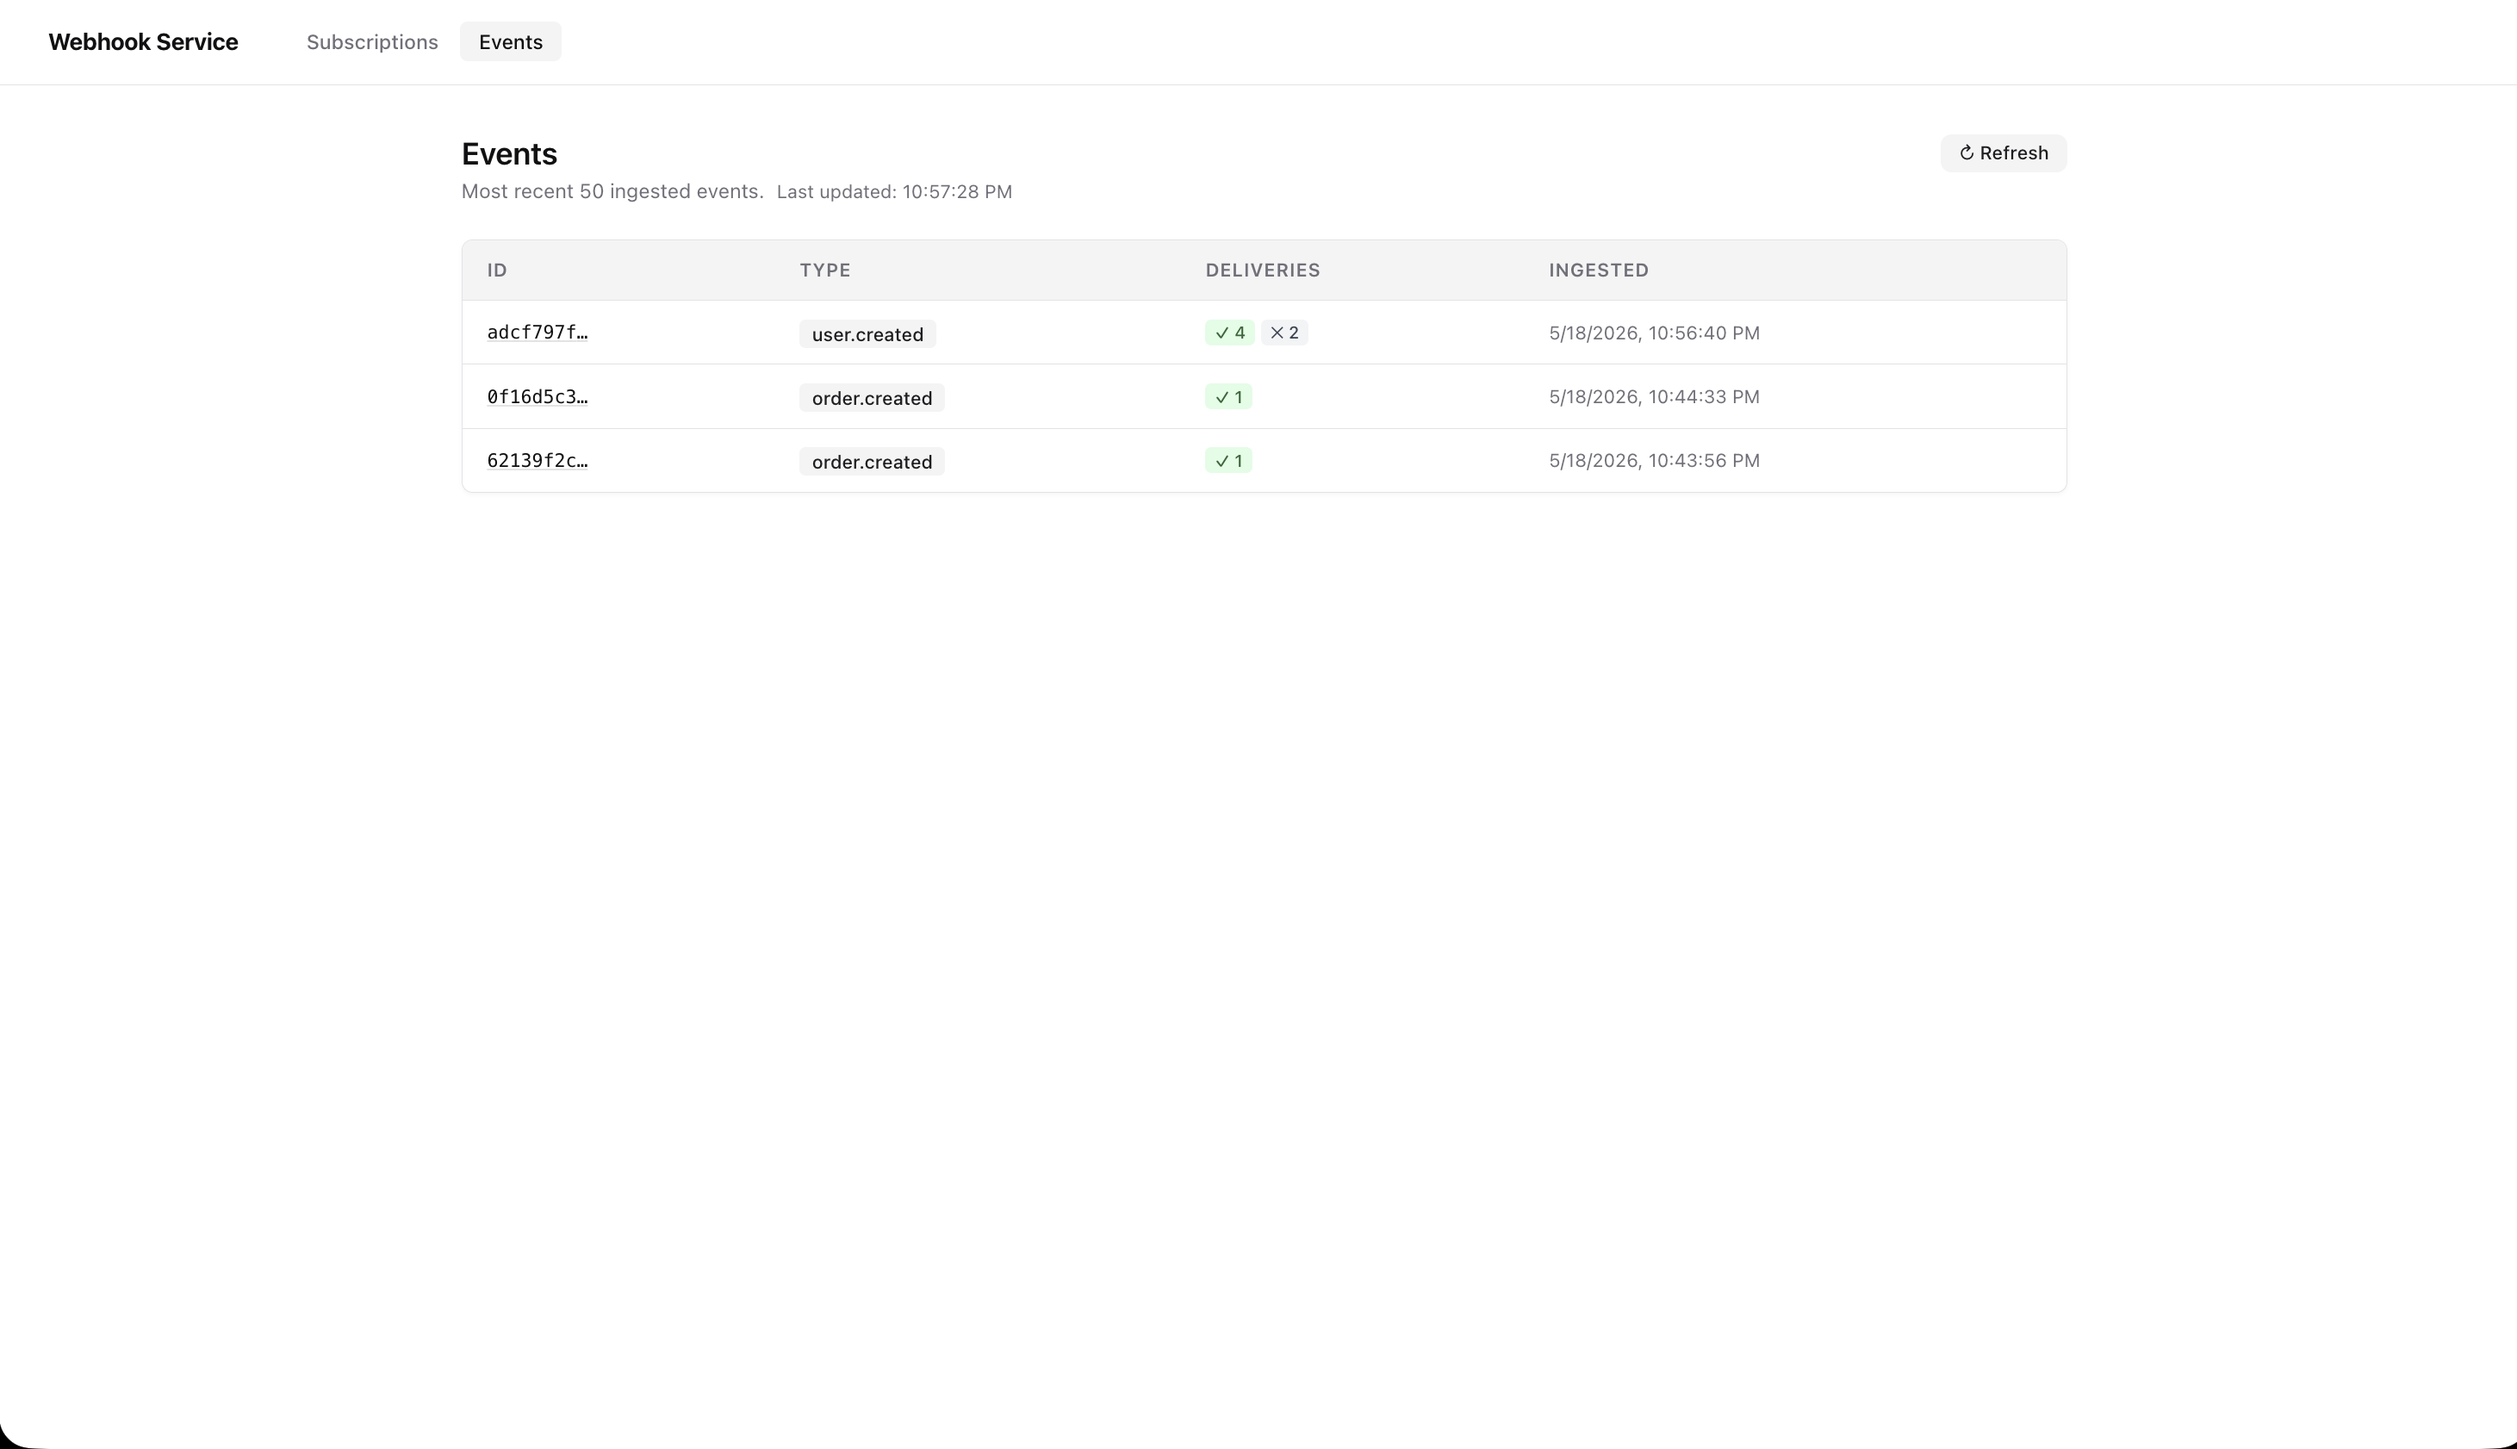
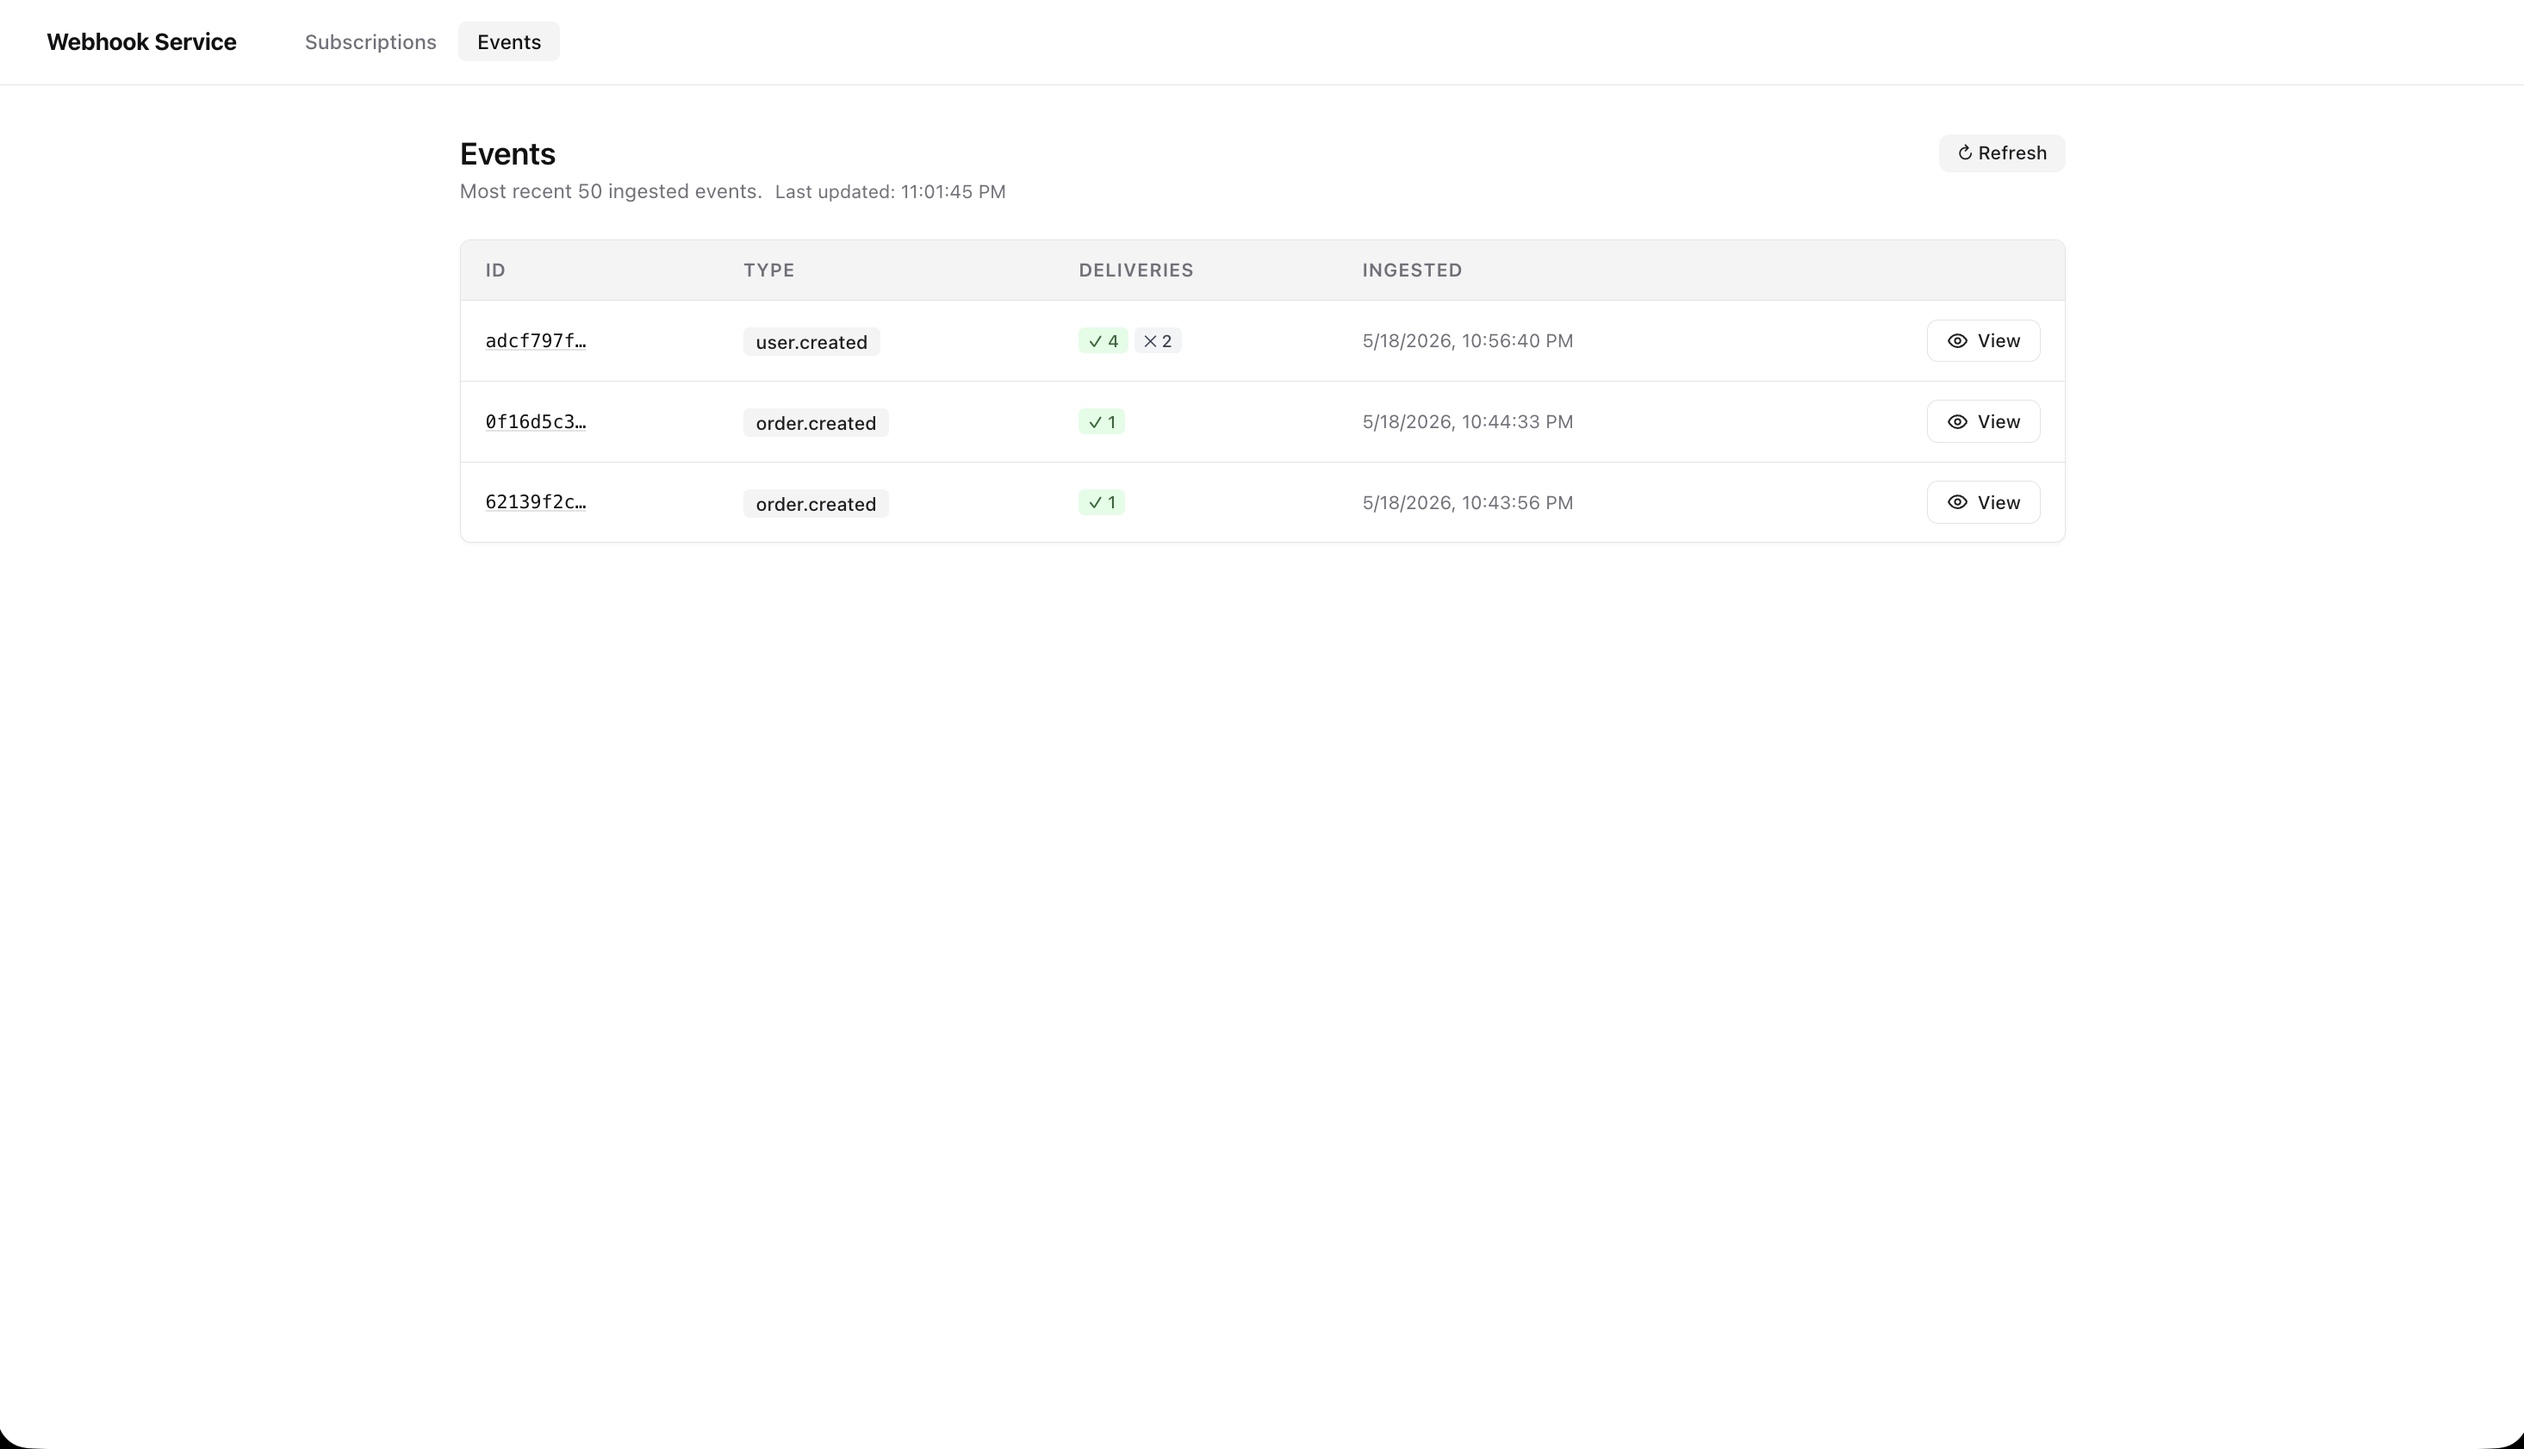
feat: add View button to Events table for direct event detail navigation

diff --git a/client/src/pages/Events.tsx b/client/src/pages/Events.tsx
@@ -102,7 +102,7 @@ export default function Events() {
                   background: "var(--muted)",
                 }}
               >
-                {["ID", "Type", "Deliveries", "Ingested"].map((h) => (
+                {["ID", "Type", "Deliveries", "Ingested", ""].map((h) => (
                   <th
                     key={h}
                     style={{
@@ -238,6 +238,48 @@ export default function Events() {
                     }}
                   >
                     {new Date(e.ingested_at).toLocaleString()}
+                  </td>
+                  <td style={{ ...thTd, textAlign: "right" }}>
+                    <Link
+                      to={`/events/${e.id}`}
+                      style={{
+                        display: "inline-flex",
+                        alignItems: "center",
+                        gap: 6,
+                        padding: "6px 12px",
+                        fontSize: 12,
+                        fontWeight: 500,
+                        color: "var(--primary)",
+                        background: "transparent",
+                        border: "1px solid var(--border)",
+                        borderRadius: "var(--radius)",
+                        textDecoration: "none",
+                        transition: "all 0.15s ease",
+                      }}
+                      onMouseEnter={(e) => {
+                        e.currentTarget.style.background = "var(--secondary)";
+                        e.currentTarget.style.borderColor = "var(--primary)";
+                      }}
+                      onMouseLeave={(e) => {
+                        e.currentTarget.style.background = "transparent";
+                        e.currentTarget.style.borderColor = "var(--border)";
+                      }}
+                    >
+                      <svg
+                        width="14"
+                        height="14"
+                        viewBox="0 0 24 24"
+                        fill="none"
+                        stroke="currentColor"
+                        strokeWidth="2"
+                        strokeLinecap="round"
+                        strokeLinejoin="round"
+                      >
+                        <path d="M2 12s3-7 10-7 10 7 10 7-3 7-10 7-10-7-10-7Z" />
+                        <circle cx="12" cy="12" r="3" />
+                      </svg>
+                      View
+                    </Link>
                   </td>
                 </tr>
               ))}
